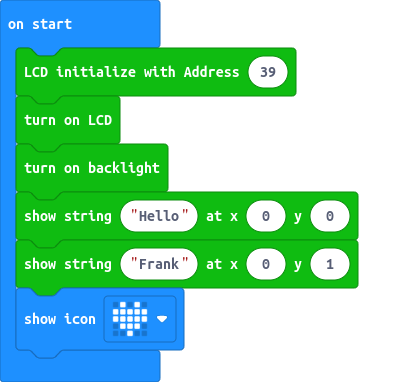
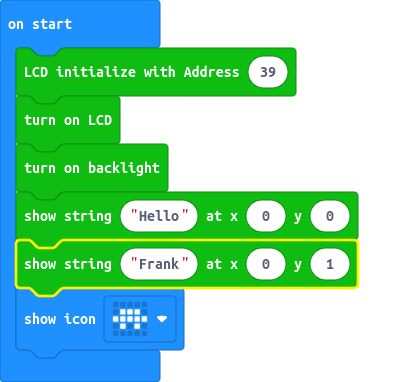
Update main.blocks, main.ts

Changed region(s): [[0.0293, 0.6047, 0.878, 0.8351], [0.2927, 0.8351, 0.322, 0.8927], [0.2634, 0.8063, 0.2927, 0.8351]]

diff --git a/main.ts b/main.ts
@@ -3,4 +3,4 @@ I2C_LCD1602.on()
 I2C_LCD1602.BacklightOn()
 I2C_LCD1602.ShowString("Hello", 0, 0)
 I2C_LCD1602.ShowString("Frank", 0, 1)
-basic.showIcon(IconNames.Heart)
+basic.showIcon(IconNames.Tortoise)
